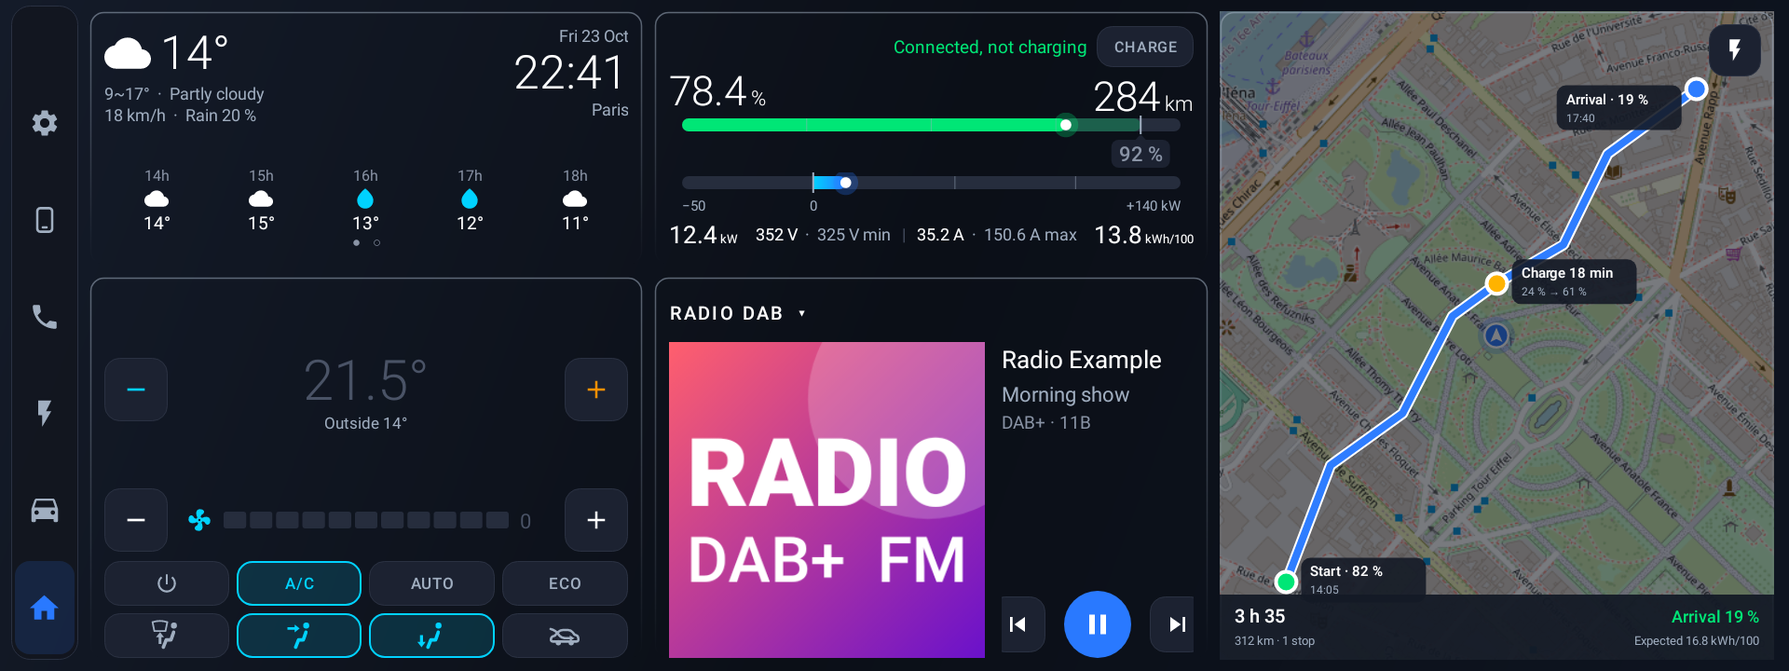
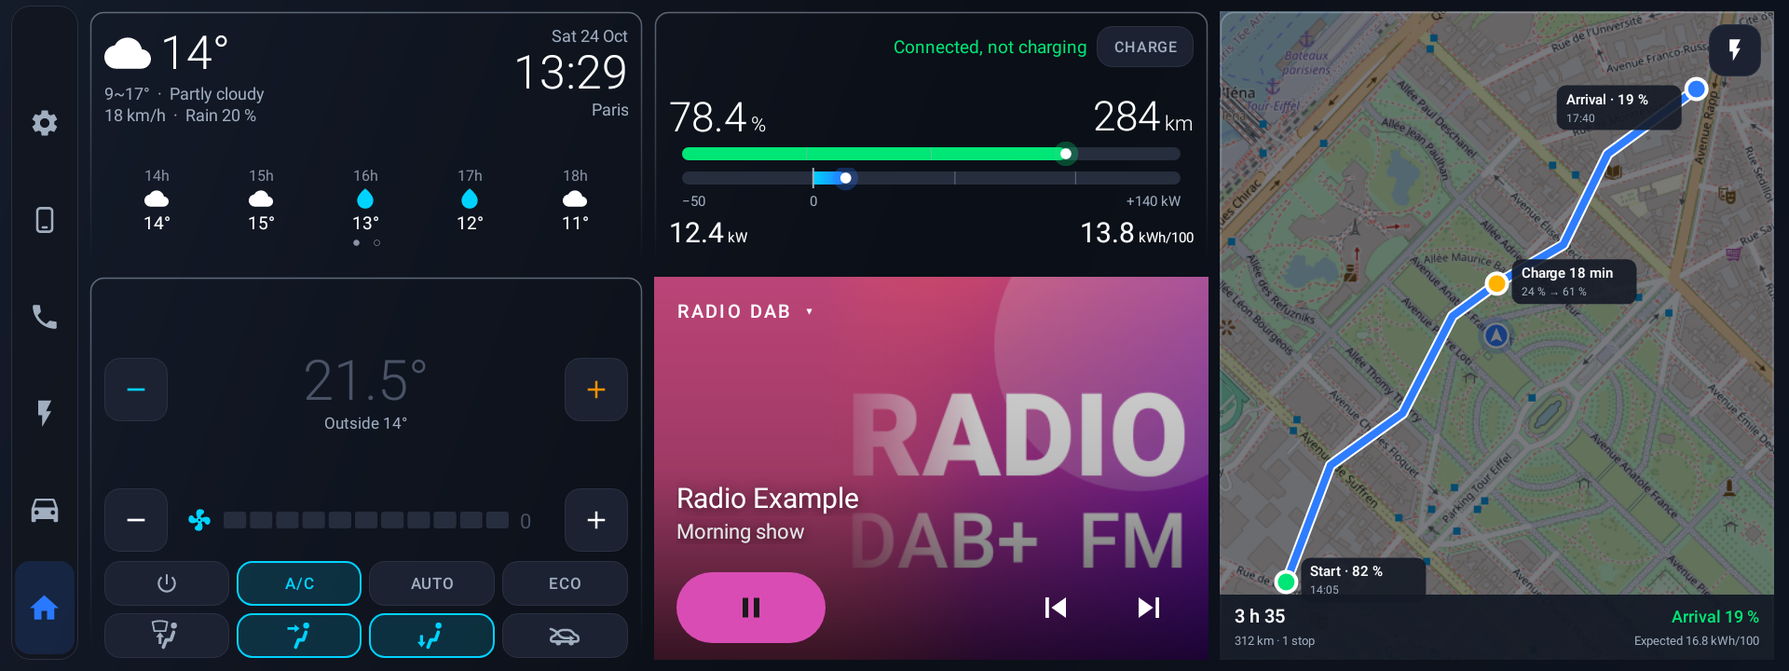
README rewritten for 1.5.x: clearer structure, default settings first, Immersive / Classic player, energy card options, layouts, themes, settings tabs; all screenshots regenerated

Changed region(s): [[0.3438, 0.3972, 0.6875, 1.0], [0.2812, 0.0306, 0.6875, 0.3667]]

diff --git a/app/src/testEmulator/java/app/mg4dash/ScreenshotTest.kt b/app/src/testEmulator/java/app/mg4dash/ScreenshotTest.kt
@@ -126,6 +126,20 @@ class ScreenshotTest {
         }
     }
 
+    /** Onglets des réglages en anglais, pour le README. */
+    @Test fun settingsTabsEn() {
+        for (t in 0..4) {
+            org.robolectric.RuntimeEnvironment.getApplication().getSharedPreferences("mg4launcher", android.content.Context.MODE_PRIVATE).edit().putInt("settings_tab", t).commit()
+            shoot(SettingsActivity::class.java, "settings_en_tab$t.png")
+        }
+    }
+
+    /** Lecteur « Classique » (réglage Lecteur de l'accueil). */
+    @Test fun homeClassicPlayer() {
+        org.robolectric.RuntimeEnvironment.getApplication().getSharedPreferences("mg4launcher", android.content.Context.MODE_PRIVATE).edit().putInt("media_style", 1).commit()
+        shoot(MainActivity::class.java, "home_classic_player.png")
+    }
+
     /** Fenêtres de dialogue au style MG4Dash (calibration de la température), sombre et clair. */
     @Test fun dialogDark() = dialogShot(1, "dialog_dark.png")
     @Test fun dialogLight() = dialogShot(2, "dialog_light.png")

diff --git a/README.md b/README.md
@@ -1,167 +1,176 @@
 # MG4Dash
 
-Full-screen launcher for the MG4 and its 1920 × 720 screen, for every head unit firmware (SWI69, SWI131/132/173, SWI68, SWI133, SWI165; see [Compatibility](#compatibility-beta)): three home layouts, Climate, Energy, Vehicle, Sound and Phone pages linked by a vertical bar or a bottom dock, dark, light or automatic mode following the car's lights, and five background and button colour themes.
+Full-screen launcher for the MG4 and its 1920 × 720 screen, for every head unit firmware (SWI69, SWI131/132/173, SWI68, SWI133, SWI165; see [Compatibility](#compatibility-beta)). It replaces the stock home screen with one dashboard (climate, battery, map, weather, media) and adds Climate, Energy, Vehicle, Sound and Phone pages, in dark, light or automatic mode following the car's lights.
 
 Languages: English (default), French, German, Spanish, Italian, Dutch and Turkish, following the car's system language. Units: km and kWh/100 km or miles and mi/kWh (following the car or set by hand), tyre pressure in bar, psi or kPa.
 
-Current version: **1.5.0** ([releases](https://github.com/Skittle6938/MG4Dash/releases)).
+Current version: **1.5.0** ([releases](https://github.com/Skittle6938/MG4Dash/releases)). Betas (1.5.1-beta…) can be installed from the app, see [Updates](#updates).
 
-> Screenshots are rendered on a PC with simulated data; the map excerpt is a fixed view of Paris (OpenStreetMap).
+> Screenshots are rendered on a PC with simulated data and the **default settings** unless stated otherwise; the map excerpt is a fixed view of Paris (OpenStreetMap).
 
-### Home
-![Home](docs/screenshots/home.png?v=17)
-Shown with the vertical bar on the left, the default on a fresh install (the bottom dock is still available, see [Vertical bar](#vertical-bar)). Climate (temperature, fan, then two rows of buttons: power, A/C, AUTO, ECO, air directions, recirculation), energy (battery % to the tenth, range with a plug icon, estimated consumption, drive mode, KERS, Charge / Start V2L button), the map, Open-Meteo weather, a media card that follows the car's active audio source (DAB/FM radio, Bluetooth, USB, Android Auto) and a bottom-right widget with three pages (see below).
+**Contents**: [Home screen](#home-screen) · [Media player](#media-player) · [Energy card](#energy-card) · [Bottom-right widget](#bottom-right-widget) · [Map card](#map-card) · [Other layouts](#other-home-layouts) · [Themes](#themes-and-day--night) · [Pages](#pages) · [Settings](#settings) · [Updates](#updates) · [Compatibility](#compatibility-beta) · [Install](#install-on-the-car) · [Gestures](#gestures)
 
-- **Range bar**: in the style of the live power bar, one colour following the level (green, orange below 30 %, red below 15 %); the % at the start of the trip is marked on the bar, with the part used during the trip in a lighter shade.
-- **Media card**: swipe up / down to switch to the next available source (radio, Bluetooth, USB, Android Auto / CarPlay when connected); playback starts by itself. DAB+ stations show their slideshow image, or the station image cached by the radio.
-- **Weather**: swipe it, or tap its dots, to switch between hourly and daily forecasts, with coloured icons (and a moon on clear nights). The forecast follows the car's position (refreshed every 5 km, city name every 2 km); a fallback city can be set, or taken from the current position, in Settings › Weather. When an update fails (no data connection), the last forecast stays on screen for up to 3 hours; after that it shows the time and the outside temperature, and retries until the connection and the position are back.
-- **Climate card**: the fan goes from off to maximum; long press fan minus jumps to the lowest speed. Long press A/C for **intermittent A/C** (the compressor runs in cycles; tap A/C to stop). Long press the temperature to calibrate the displayed set point (−5° to +5°, display only, the car keeps its own value).
-- **Heated seats and steering wheel**: on equipped cars, a row of buttons above the temperature (see [below](#heated-seats-and-steering-wheel)).
-- **Media source menu**: tap the source name on the media card to pick radio, Bluetooth, USB or Android Auto / CarPlay.
-- **KERS gauge**: tap a segment to set the regeneration level (low, medium, high, adaptive); long press toggles one-pedal driving.
-- **Play / pause**: long press opens the [Sound](#sound) page.
-- **Steering wheel * button**: while MG4Dash is the home screen, it opens the 360 camera, and closes it on a second press (where the car sets the * button to the camera).
+## Home screen
 
-**Live power in the energy card** (Settings › Home): the energy card shows the power bar, kW, the battery voltage with its trip minimum, the current with its trip maximum and the average consumption, instead of the drive mode and KERS. The charge / V2L line comes back when plugged in, and the Live power page then leaves the bottom-right widget.
+![Home screen, default settings](docs/screenshots/home.png?v=18)
 
-![Live power in the energy card](docs/screenshots/home_energy_card_power.png?v=17)
+The default home screen (*Full* layout, vertical bar on the left). From left to right:
 
-Long press the Android Auto button in the dock to make it open Android Auto, CarPlay or the app of your choice.
+- **Vertical bar**: Settings, Phone, Energy, Vehicle and Home, with the space at the top left for MG's fog light button. Each icon also has a long press or double tap shortcut, see [Gestures](#gestures).
+- **Climate card**: set temperature (LO → HI in 1° steps) and outside temperature, fan from off to maximum, then power, A/C, AUTO, ECO, air directions and recirculation.
+  - Fan minus at the lowest speed turns the climate off; long press jumps to the lowest speed.
+  - Long press A/C for **intermittent A/C** (the compressor runs in cycles; tap A/C to stop).
+  - Long press the temperature to calibrate the displayed set point (−5° to +5°, display only).
+  - Long press the power button for [Keep climate on](#keep-climate-on).
+- **Energy card**: battery % to the tenth, range, average consumption, drive mode, KERS gauge (tap a segment for the regeneration level, long press for one-pedal driving) and the Charge / V2L button. See [Energy card](#energy-card).
+- **Map card**: OpenStreetMap map following the car, with speed, heading and altitude. See [Map card](#map-card).
+- **Weather card**: Open-Meteo forecast for the car's position, hourly or daily (swipe or tap the dots). When a refresh fails (no data connection) the last forecast stays for up to 3 hours.
+- **Media card**: see [Media player](#media-player).
+- **Bottom-right widget**: trip energy, live power or phone favourites. See [Bottom-right widget](#bottom-right-widget).
 
-### Heated seats and steering wheel
-![Heated seats and steering wheel](docs/screenshots/home_heated_seats.png?v=17)
-On equipped cars, a row of three buttons sits above the climate temperature: driver seat, steering wheel and passenger seat. Tap a seat to step through its levels (off, then 1 to 3 heat arrows, lit while on), tap the steering wheel to turn it on or off. The same row appears on the Simple layout. Settings › Heated seats and steering wheel: Auto (detected), Yes or No.
+**Heated seats and steering wheel**: on equipped cars, a row of buttons sits above the temperature (driver seat, steering wheel, passenger seat). Settings › Vehicle › Heated seats and steering wheel: Auto (detected), Yes or No.
 
-### Bottom-right widget
-Swipe or tap it to switch between three pages, all readable at a glance while driving:
-- **Trip energy**: one big bar and the share of driving, climate control and accessories since start-up (details on the Energy page).
-- **Live power**: kW drawn from or recovered into the battery, refreshed every second, on a two-way bar from zero (scale following the battery model, with a 10 s peak marker), with the trip average, the battery voltage and current (green while regenerating). It also hides a **full-throttle special**: floor it and the widget jumps to this page with a rocket, a lightning bolt or flames (or one at random), then goes back (Settings › Energy to pick it or turn it off). The scale and the special follow the MG4 XPower when it is detected or set in Settings › Energy.
-- **Phone**: three favourite contacts chosen from the phone book (tap to call, long press to change).
+![Heated seats and steering wheel](docs/screenshots/home_heated_seats.png?v=18)
+
+## Media player
+
+The media card follows the car's active audio source (DAB / FM radio, Bluetooth, USB, Android Auto, CarPlay). Swipe it up / down for the next source, tap the source name (« Radio DAB ▾ ») for the source menu, tap the picture to open the source's app, long press play / pause for the [Sound](#sound) page.
+
+Two presentations, in Settings › Home › *Player on the home screen*; they apply to the Full, Map and Simple layouts:
+
+| **Immersive** (default) | **Classic** |
+|---|---|
+| ![Immersive player](docs/screenshots/home.png?v=18) | ![Classic player](docs/screenshots/home_classic_player.png?v=18) |
+| Like the Android Auto player: the album art or station image covers the card (extended by the colour of its edge when it is not the card's shape), title and artist over it, play button and progress bar in the image's main colour. | The square picture on the left, title, artist and album on the right, and large previous / play / next buttons that always fit the column. |
+
+## Energy card
+
+By default the energy card shows the battery, the range bar, the average consumption, the drive mode and KERS. The **range bar** has one colour following the level (green, orange below 30 %, red below 15 %); the % at the start of the trip is marked on it, with the part used since then in a lighter shade.
+
+Settings › Home › *Live power in the energy card* replaces the drive mode and KERS with a live power bar, kW and the average consumption; the charge / V2L line only shows when plugged in (the trip start marker then hides so the range stays aligned with the %). *Voltage and current under the power bar* (off by default) adds the battery voltage with its trip minimum and the current with its trip maximum.
+
+| Live power, plugged in | Live power with voltage and current, driving |
+|---|---|
+| ![Live power in the energy card](docs/screenshots/home_energy_card_power.png?v=18) | ![Live power with voltage and current](docs/screenshots/home_energy_card_power_driving.png?v=18) |
+
+## Bottom-right widget
+
+Swipe or tap it to switch between its pages:
+
+- **Trip energy**: one bar and the share of driving, climate control and accessories since start-up (details on the Energy page).
+- **Live power**: kW drawn from or recovered into the battery every second, on a two-way bar from zero with a 10 s peak marker, the trip average, voltage and current. It hides a **full-throttle special**: floor it and the widget jumps to this page with a rocket, lightning or flames (Settings › Look › Live power). This page leaves the widget when *Live power in the energy card* is on.
+- **Phone**: three favourite contacts (tap to call, long press to change).
 
 | | |
 |---|---|
-| ![Live power](docs/screenshots/home_widget_power.png?v=17) | ![Phone favourites](docs/screenshots/home_widget_phone.png?v=17) |
-| ![Full-throttle special](docs/screenshots/boost_rocket_on.png?v=17) | |
+| ![Live power](docs/screenshots/home_widget_power.png?v=18) | ![Phone favourites](docs/screenshots/home_widget_phone.png?v=18) |
+| ![Full-throttle special](docs/screenshots/boost_rocket_on.png?v=18) | |
 
-### Map home layout
-![Map layout](docs/screenshots/home_map_layout.png?v=17)
-A third layout (Settings › Home layout › Map), suggested in [issue #6](https://github.com/Skittle6938/MG4Dash/issues/6): weather with the date and time, climate on the left, a stack (energy, trip energy, live power, phone) above the media in the centre, and the map over the whole right column. Swipe the stack to change page; with the automatic option, it jumps back to the battery once when the car is plugged in. Speed, heading and altitude sit at the top left of the map; in heading-up mode the car is placed in the lower part to show more of the road ahead.
+## Map card
 
-The map widget also has a **consumption** page and **3 rows of shortcuts** (button at its top right). Without data connection the map stays on screen as long as the area around the car is in the tile cache, and only then switches to consumption (this switch can be turned off in the settings). Default zoom (14 to 18) and map colours (Auto, following the car's day / night whatever the app theme, Light or Dark) are set in the launcher settings.
+- **Map**: follows the car, north up or heading up (tap the recenter button again), default zoom 14 to 18 and colours (auto, light, dark) in Settings › Home. The zoom and full screen buttons hide after a few seconds. Without data connection the map stays as long as the area is in the tile cache, then the card switches to consumption (can be turned off).
+- **Consumption**: the button at the top right switches map → consumption → shortcuts. Period menu: since the last charge, current trip (one point every 0.5 km, one per minute when stopped, from the energy measured by MG4Dash) or last 12 months (one point per trip). The dashed line is the average, with its value.
+- **Shortcuts**: 3 rows of apps or Home Assistant actions (scripts, automations, scenes, gate, garage door…). Tap an empty slot or long press a slot to change it; the Home Assistant address and token are set in Settings › Connections. The shortcuts page can be turned off.
+- **Full screen**: the button below the zoom enlarges the map over the whole screen; any bar button brings it back.
 
-The consumption page has a period menu: since the last charge, current trip, last 1,000 km, or the last 12 months (one total and one point per month).
+| Consumption | Shortcuts |
+|---|---|
+| ![Consumption](docs/screenshots/home_map_layout_consumption.png?v=18) | ![Shortcuts](docs/screenshots/home_map_layout_shortcuts.png?v=18) |
+
+**Another app in the map card**: long press the map to show another installed app inside the card instead of the map, for example an EV route planner such as ABRP or a navigation app such as Waze. It runs live and can be touched; the card buttons fade out after 5 s and come back on a touch, and the full screen button enlarges the app (it stays full screen through day / night changes until you press Home or the button again). Pick "OpenStreetMap map" in the same list to go back. *The apps below are drawn for the example.*
 
 | | |
 |---|---|
-| ![Map layout, consumption](docs/screenshots/home_map_layout_consumption.png?v=17) | ![Map layout, shortcuts](docs/screenshots/home_map_layout_shortcuts.png?v=17) |
-| ![Consumption over 12 months](docs/screenshots/home_map_layout_consumption_year.png?v=17) | |
+| ![EV route planner in the map card](docs/screenshots/home_map_app_planner.png?v=18) | ![Navigation app in the map card](docs/screenshots/home_map_app_guidance.png?v=18) |
 
-### Vertical bar
-![Vertical bar](docs/screenshots/home_map_layout_vertical.png?v=17)
-Settings › Home layout › *Vertical bar on the left* (on by default on a fresh install): an icon bar on the left, with the space at the top for the MG fog light button. It applies at once to every home layout, every page and to Radio Dash. Turn it off to get the dock at the bottom instead (below, left).
+**Turn-by-turn**: with [DiAuto](https://github.com/merthankaraman/DiAuto-MG4) (or another Headunit Revived-based Android Auto app that broadcasts `com.andrerinas.headunitrevived.NAVIGATION_UPDATE`), the next manoeuvre is shown over the map: arrow, distance, street, time and distance left, arrival time. The stock Android Auto app does not receive this information.
 
-- **Settings**: tap for the launcher settings, long press for the car settings, double tap for Wi-Fi.
-- **Android Auto**: tap to open it, long press to choose Android Auto, CarPlay or another app.
-- **Energy**: tap for the Energy page, double tap to turn the screen off like the stock launcher (touch the screen to wake it), long press to switch the car off (never while moving).
-- **Vehicle**: tap for the Vehicle page, double tap to lock / unlock the doors, long press to turn ESC off / on (the icon stays red while it is off).
-- **Phone** and **Home**.
+![Navigation banner](docs/screenshots/home_map_layout_nav.png?v=18)
 
-| | |
+## Other home layouts
+
+Settings › Home › Home layout: **Full** (default), **Map** or **Simple**; vertical bar on the left (default) or bottom dock.
+
+| Map layout | Simple layout |
 |---|---|
-| ![Bottom dock](docs/screenshots/home_bottom_bar.png?v=17) | ![Vertical bar, energy page](docs/screenshots/energy_vertical.png?v=17) |
+| ![Map layout](docs/screenshots/home_map_layout.png?v=18) | ![Simple layout](docs/screenshots/home_simple.png?v=18) |
+| Weather with date and time, climate, a stack (energy, trip energy, live power, phone; swipe to change, back to the battery when plugged in) above the media, and the map over the whole right column. | Fewer buttons and bigger text: climate, battery and media panels, two shortcuts and today's weather. Tap a panel to open its page. |
+| **Bottom dock** | **Right-hand drive** |
+| ![Bottom dock](docs/screenshots/home_bottom_bar.png?v=18) | ![Vertical bar on the right](docs/screenshots/home_right_hand.png?v=18) |
+| Vertical bar turned off: dock at the bottom with clock and date (long press the clock: clock or Wi-Fi settings). | On right-hand drive cars (detected), the vertical bar goes on the right, next to the driver. |
 
-Card titles are left out on every layout for a calmer screen; the media card keeps its source name, which opens the source menu.
+## Themes and day / night
 
-### Another app in the map card
-| | |
+Settings › Look: **Auto** (default, follows the car's lights), **Dark** or **Light**; 5 backgrounds and 5 button colours, applied to every page and to [Radio Dash](https://github.com/Skittle6938/MG4-Radio-Dash). Battery green, heating orange, cooling cyan and alert red keep their meaning.
+
+- *Smooth light / dark switch* (on by default): the switch waits for 5 s of stable lights (no flicker under a bridge) and fades over 2 s. Off: it switches as soon as the lights change.
+- *Home panel outline*: fading downwards (dashboard style, default) or full.
+
+| Light mode | Charcoal background, orange buttons |
 |---|---|
-| ![EV route planner in the map card](docs/screenshots/home_map_app_planner.png?v=17) | ![Navigation app in the map card](docs/screenshots/home_map_app_guidance.png?v=17) |
+| ![Light mode](docs/screenshots/home_light.png?v=18) | ![Charcoal and orange](docs/screenshots/home_theme_charcoal_orange.png?v=18) |
 
-Long press the map (or its top right button) to show another installed app inside the map card instead of the OpenStreetMap map, for example an EV route planner such as ABRP or a navigation app such as Waze. The app runs live in the card and can be touched, and a full screen button (below the top right one) enlarges it like the map. Over an app, the map card buttons fade out after 5 s so they do not hide it, and come back on a touch; full screen stays on through day / night changes until you press Home or the button again. Pick "OpenStreetMap map" in the same list to go back. *Illustrations: the apps shown here are drawn for the example.*
-
-### Turn-by-turn on the map
-![Navigation banner](docs/screenshots/home_map_layout_nav.png?v=17)
-With [DiAuto](https://github.com/merthankaraman/DiAuto-MG4) (or another Headunit Revived-based Android Auto app that broadcasts `com.andrerinas.headunitrevived.NAVIGATION_UPDATE`), the next manoeuvre is shown over the home map: arrow, distance, street, time and distance left, arrival time. The stock Android Auto app does not receive this information from the phone, so it only works with these apps.
-
-### Simple home layout
-![Simple home](docs/screenshots/home_simple.png?v=17)
-An alternative, calmer home screen for those who want fewer buttons and bigger text: three large panels (climate, battery, media), two configurable shortcuts and today's weather, with the vertical bar, or a reduced bottom dock (Home, Phone, Android Auto, Settings). Choose it in the launcher settings, under "Home layout"; tap a panel to open the matching page.
-
-### Shortcuts and Home Assistant
-![Shortcuts](docs/screenshots/home_shortcuts.png?v=17)
-The button at the top right of the map swaps it for pages of shortcuts: apps or Home Assistant actions (scripts, automations, scenes, buttons, gate, garage door…). Tap an empty slot, or long press any slot, to change it. The Home Assistant address and token are set in the launcher settings.
-
-### Themes
-![Charcoal background, orange buttons](docs/screenshots/home_theme_charcoal_orange.png?v=17)
-Background (night blue, black, charcoal, dark green, dark burgundy) and button colour (blue, grey, red, green, orange) are chosen separately in the launcher settings and apply to every page. Battery green, heating orange, cooling cyan and alert red keep their meaning. Radio Dash follows the same theme.
-
-Light mode: dark, light or auto in the same settings. In auto, every page (and Radio Dash, even while it stays on screen) switches to dark when the car's lights come on, and back to light when they go off. By default the switch waits for 5 s of stable lights (no flicker under a bridge or in a short tunnel) and fades over 2 s; turn off *Smooth light / dark switch* in Settings › Look to switch at once, as soon as the lights change. The outline of the home panels can fade downwards (dashboard style, default) or be complete.
-
-![Light mode, home](docs/screenshots/home_light.png?v=17)
-
-| | |
-|---|---|
-| ![Climate, light](docs/screenshots/climate_light.png?v=17) | ![Energy, light](docs/screenshots/energy_light.png?v=17) |
-| ![Simple home, light](docs/screenshots/home_simple_light.png?v=17) | ![Settings, light](docs/screenshots/settings_light.png?v=17) |
+## Pages
 
 ### Climate
-![Climate](docs/screenshots/climate.png?v=17)
-Temperature in 1° steps (LO → HI), fan speed, combinable air direction, AUTO, A/C, ECO, recirculation and front / rear defrost.
+![Climate](docs/screenshots/climate.png?v=18)
+Temperature, fan speed, combinable air directions, AUTO, A/C, ECO, recirculation and front / rear defrost. On old firmwares (SWI68, SWI133, SWI165), MG4Dash comes back in front when the stock launcher opens its own climate screen (Settings › Vehicle, on by default).
 
 ### Keep climate on
-![Keep climate on, at a set time](docs/screenshots/climhold_menu_at_en.png?v=17)
-A camp mode, off by default (Settings › Home layout › *Keep climate on*), then a long press on MG4Dash's climate power button (home screen or Climate page). It keeps the car on with the climate running while you are away or sleeping in the car: **now** (for a set time or without limit), or **at a set time** in one or more runs with a pause between them.
+A camp mode, off by default (Settings › Vehicle › *Keep climate on*), then a long press on MG4Dash's climate power button. It keeps the car on with the climate running while you are away or sleeping in the car: **now** (for a set time or without limit), or **at a set time** in one or more runs with a pause between them (the A/C compressor is switched on at each run).
 
-- After a countdown (20 s by default) **MG4Dash locks the doors itself**: get out and take the key with you. Do not lock with the key fob, which switches the whole car off, head unit included, and ends the mode.
-- A large status screen stays readable from outside: outside temperature, climate state, time left, runs and battery. It is always dark, its brightness drops to the minimum once locked (a tap brings it back for 10 s), and an option turns it fully off for sleeping or discretion.
-- The mode ends after the last run, at the end of the set time or below 20 % battery (climate off, car switched off), and stops as soon as the doors are unlocked or the car drives off.
-- The lights follow the light stalk: leave it on Auto.
+- After a countdown (20 s by default) **MG4Dash locks the doors itself**: get out and take the key with you. Do not lock with the key fob, which switches the whole car off and ends the mode.
+- A large status screen stays readable from outside: outside temperature, climate state, time left, runs and battery. Its brightness drops to the minimum once locked (a tap brings it back for 10 s), and an option turns it fully off.
+- The mode ends after the last run, at the end of the set time or below 20 % battery, and stops as soon as the doors are unlocked or the car drives off. Leave the light stalk on Auto.
 - **Never leave a child or an animal alone in the car**: the climate can stop at any time (battery, fault, car switching off).
 
-| | |
-|---|---|
-| ![Countdown before locking](docs/screenshots/climhold_countdown_en.png?v=17) | ![Status screen](docs/screenshots/climhold_screen_en.png?v=17) |
+| | | |
+|---|---|---|
+| ![At a set time](docs/screenshots/climhold_menu_at_en.png?v=18) | ![Countdown](docs/screenshots/climhold_countdown_en.png?v=18) | ![Status screen](docs/screenshots/climhold_screen_en.png?v=18) |
 
 ### Energy
-![Energy](docs/screenshots/energy.png?v=17)
-Charging (start / stop, charge limit on firmwares where the car applies it, AC current, time left, AC input voltage and current, reason when the car stops charging, charging cable lock), scheduled charging, V2L (adapter state, stop threshold, start / stop), battery heating while driving (same switch as the stock Energy app) and consumption (since the last charge, current trip, last 1,000 km or last 12 months: driving, climate, accessories, energy and range recovered by braking, consumption curve).
+![Energy](docs/screenshots/energy.png?v=18)
+Charging (start / stop, charge limit where the car applies it, AC current, time left, input voltage and current, reason when the car stops charging, cable lock), scheduled charging, V2L (adapter state, stop threshold, start / stop), battery heating while driving, and consumption by period (driving, climate, accessories, energy recovered by braking, consumption curve).
 
 ### Vehicle
-![Vehicle](docs/screenshots/vehicle.png?v=17)
-Drive mode (including Eco, Snow and Custom where the car has them), regeneration (tap the gauge to change it; level 6 is one-pedal driving), driver assistance, tyre pressures and temperatures, and vehicle status, with a shortcut to MG4 Control.
+![Vehicle](docs/screenshots/vehicle.png?v=18)
+Drive mode (with Eco, Snow and Custom where available), regeneration (level 6 is one-pedal driving), driver assistance, tyre pressures and temperatures, vehicle status, a shortcut to MG4 Control, and the **battery health estimate**: while driving, MG4Dash measures the energy taken from the battery and divides it by the drop in battery %; from a 15 % drop (added up over several trips) it gives a dated measurement of the usable capacity, averaged over 30 days and compared with a new battery of your model (51, 64 or 77 kWh). This is an estimate, not an official measurement.
 
 ### Sound
-![Sound](docs/screenshots/sound.png?v=17)
-Vehicle › *Sound*, or a long press on the play / pause button of the home screen. Drag the dot on the MG4 seen from above to set the balance (left / right) and the fader (front / rear), double tap or *Centre* to bring it back to the middle. The 5-band equaliser (80 Hz to 16 kHz) uses the car's presets (Classic, Jazz, Pop, Rock, Vocal) or your own curve (*User*, by moving a slider), with a *Loudness* switch and a *Flat* reset. A live spectrum of what is playing is shown faintly behind the sliders (Bluetooth, USB and apps; the radio may stay flat if its sound does not go through Android). The settings are the car's own, the same as in the stock sound menu.
-
-### Startup
-![Startup animation](docs/screenshots/splash.png?v=17)
-While the head unit starts, a short MG4Dash animation replaces Android's "Phone is starting" screen, and the home screen opens as soon as the system is ready.
+![Sound](docs/screenshots/sound.png?v=18)
+Vehicle › *Sound*, or a long press on play / pause. Drag the dot on the MG4 seen from above to set the balance and fader (double tap or *Centre* to reset). 5-band equaliser with the car's presets (Classic, Jazz, Pop, Rock, Vocal) or your own curve, *Loudness* and *Flat*. A live spectrum of what is playing is shown behind the sliders for Bluetooth, USB and apps; the radio's sound does not go through Android, so the spectrum stays flat on the radio. These are the car's own settings, the same as the stock sound menu.
 
 ### Phone
-![Phone](docs/screenshots/phone.png?v=17)
-Recent calls, contacts with a search field and a keypad, from the phone connected over Bluetooth. Calls go through the hands-free (HFP) account, like the stock phone app, whose in-call screen is kept.
+![Phone](docs/screenshots/phone.png?v=18)
+Recent calls, contacts with search and a keypad, from the phone connected over Bluetooth. Calls go through the hands-free account, like the stock phone app, whose in-call screen is kept.
 
-### Battery health (estimated)
-Shown on the Vehicle page. While driving, MG4Dash measures the energy actually taken from the battery (regeneration deducted) and divides it by the drop in battery % over the same time. Only what MG4Dash sees with the screen on counts, so the drop adds up over several trips and days, without waiting for a charge; from a 15 % drop, that gives one dated measurement of the usable capacity. The average of the last 30 days, weighted by the % drop, is shown to one decimal with the distance it covers, against the usable capacity of a new battery of your model (51, 64 or 77 kWh, chosen in Settings › Energy). This is an estimate made by MG4Dash, not an official measurement, and the feature is still being tested.
+### Startup
+![Startup animation](docs/screenshots/splash.png?v=18)
+While the head unit starts, a short MG4Dash animation replaces Android's "Phone is starting" screen; the home screen opens as soon as the system is ready.
 
-The car does not share the battery or motor temperature with the head unit, so MG4Dash cannot show them.
+## Settings
 
-### Launcher settings
-![Settings](docs/screenshots/settings.png?v=17)
-Five tabs along the top (Home, Look, Vehicle, Connections, System); the last tab used opens next time. Each on/off option is a single button that lights up when it is on. Dialogs and messages follow the MG4Dash theme, light or dark.
+Five tabs along the top; the last one used opens next time. Each on / off option is a single button that lights up when it is on. Dialogs and messages follow the MG4Dash theme.
+
+| Home | Look |
+|---|---|
+| ![Settings, Home](docs/screenshots/settings_en_tab0.png?v=18) | ![Settings, Look](docs/screenshots/settings_en_tab1.png?v=18) |
+| **Vehicle** | **System** |
+| ![Settings, Vehicle](docs/screenshots/settings_en_tab2.png?v=18) | ![Settings, System](docs/screenshots/settings_en_tab4.png?v=18) |
 
 | Tab | Options |
 |---|---|
-| Home | Full, Simple or Map; vertical bar on the left; full screen (hides the SAIC side bar and banner); live power in the energy card; map layout stack back to the battery when plugged in; default map zoom; map colours (auto, light, dark); hide the map buttons; shortcuts page in the map card; switch to the energy widget when offline |
-| Look | light / dark / auto (follows the car's lights), smooth light / dark switch, panel outline (fading or complete), background, button colour; full-throttle special |
-| Vehicle | units (like the car, km · kWh/100 km, miles · mi/kWh); tyre pressure unit (auto, bar, psi, kPa); heated seats and steering wheel buttons (auto, yes, no); Keep climate on; usable battery capacity (read from the car, measured, or set by hand), battery model for the health estimate, MG4 XPower |
-| Connections | weather (fallback city, or use my position); Home Assistant (address, token, connection test) |
-| System | replace the SAIC home, maintenance mode, briefly open the SAIC launcher at startup; update (check and install, include beta versions; Radio Dash update on SWI69); diagnostics (compatibility test, built-in log, energy data recorder) |
+| Home | home layout (Full, Simple, Map), vertical bar, full screen (hides the SAIC side bar and banner), live power in the energy card, voltage and current under the power bar, player (Immersive, Classic), map stack back to the battery when plugged in, map zoom and colours, hide the map buttons, shortcuts page, switch to the energy widget when offline |
+| Look | light / dark / auto, smooth light / dark switch, panel outline, background, button colour, full-throttle special |
+| Vehicle | units, tyre pressure unit, heated seats and steering wheel, Keep climate on, keep MG4Dash in front of the SAIC climate screen (old firmwares), usable battery capacity, battery model, MG4 XPower |
+| Connections | weather (fallback city or current position), Home Assistant (address, token, test) |
+| System | replace the SAIC home, maintenance mode, briefly open the SAIC launcher at startup, updates (include betas, Radio Dash), diagnostics (compatibility test, log, energy data recorder) |
 
-**Update**: Settings › Update › Check downloads the latest MG4Dash release from GitHub and installs it (internet connection needed); turn on *Include beta versions* to also get the betas, numbered after the next release (1.4.1-beta0, 1.4.1-beta1…). When a new official (non-beta) release is out, MG4Dash also offers it in a popup at startup: *Update*, *Later*, or *Don't notify me again for this release*.
+## Updates
 
-**Radio Dash**: on SWI69 with the matching radio app, Settings › Update also installs the latest [Radio Dash](https://github.com/Skittle6938/MG4-Radio-Dash) release (restart the head unit afterwards by holding Home about 20 s).
+Settings › System › *Check* downloads the latest MG4Dash release from GitHub and installs it (internet connection needed). Turn on *Include beta versions* to also get the betas, numbered after the next release (1.5.1-beta0, 1.5.1-beta1…). When a new official release is out, MG4Dash also offers it at startup: *Update*, *Later* or *Don't notify me again for this release*.
+
+**Radio Dash**: on SWI69 with the matching radio app, the same page installs the latest [Radio Dash](https://github.com/Skittle6938/MG4-Radio-Dash) (the radio redesigned in the MG4Dash style); restart the head unit afterwards by holding Home about 20 s.
 
 ## Compatibility (beta)
 
@@ -191,6 +200,9 @@ Features a firmware does not expose are hidden instead of failing (for example t
   - `settings/Compat.kt`: compatibility report and QR code
   - `car/CarApi.kt`: binder clients written for MG4Dash (descriptors and transaction numbers observed on the car)
   - `energy/ConsumptionEstimator.kt`: kWh/100 estimated from battery % and kilometres
+  - `energy/EnergyMonitor.kt`, `energy/ConsumptionCurve.kt`: energy measured from battery voltage × current, split into driving / climate / accessories, and the consumption curves
+  - `ui/MediaStyle.kt`: Immersive and Classic media players
+  - `system/Projection.kt`: Android Auto / CarPlay session read from the AllGo remote UI service
   - `energy/EnergyLogger.kt`: read-only CSV recorder of battery power, consumption counters and equipment states
   - `media/MediaHub.kt`: active player, chosen from the car's audio source like the stock launcher
   - `map/NavRepo.kt`: turn-by-turn data broadcast by DiAuto / Headunit Revived
@@ -260,6 +272,7 @@ The SAIC launcher package (`com.saicmotor.launcher`) is never disabled: its serv
 - Tap a segment of the KERS gauge: regeneration level; long press: one-pedal driving
 - Button at the top right of the map: map → consumption → shortcuts; long press a shortcut to edit it
 - Long press the map: show another app in the map card
+- Fan minus at the lowest speed: climate off
 - Map "recenter" button: resume following the car; press again to switch between north up and car heading up (green)
 
 ## Credits
